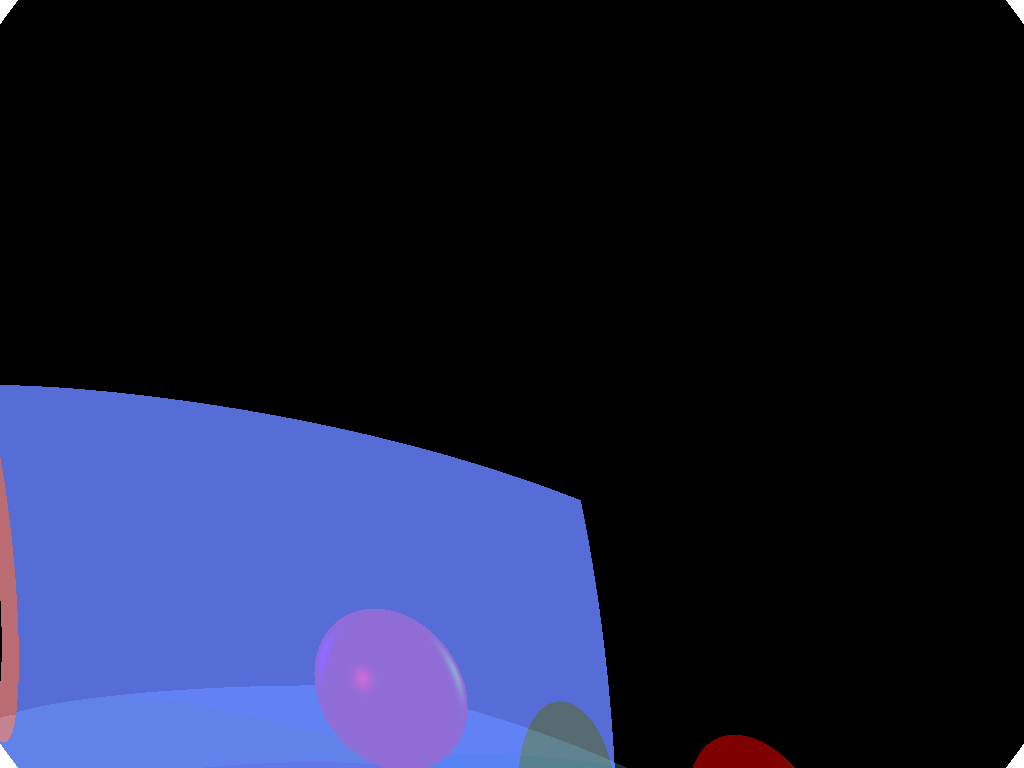
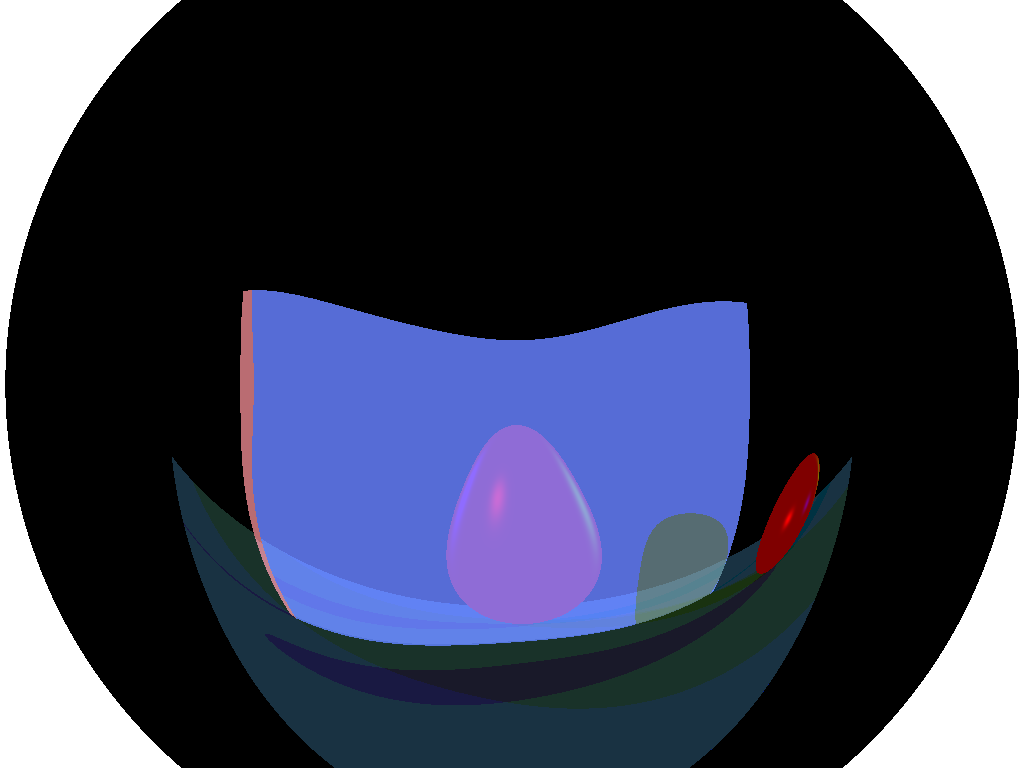
fix: minor bugs with thin lenses

diff --git a/src/lenses/lensassemblies.cpp b/src/lenses/lensassemblies.cpp
@@ -15,10 +15,10 @@ typedef struct Lens {
         // to this one
 } lens_t;
 
-lens_t globalLens1 = {0.2, 1.1, 0.5};
-// lens_t globalLens2 = {-0.5, 1.2, 0.5};
-std::vector<lens_t> lenses = {globalLens1};
-// std::vector<lens_t> lenses = {globalLens1, globalLens2};
+lens_t globalLens1 = {1, 1.2, 3};
+lens_t globalLens2 = {5, 5, 5};
+// std::vector<lens_t> lenses = {globalLens1};
+std::vector<lens_t> lenses = {globalLens1, globalLens2};
 
 typedef struct Aperture {
     float apertureRadius;
@@ -123,18 +123,24 @@ computeLensAdjustedDirection(glm::vec3 initialDirection,
 
     if (tValues.size() > 0) {
         float t = lens.lensRadius > 0
-                      ? *std::max_element(tValues.begin(), tValues.end())
-                      : *std::min_element(tValues.begin(), tValues.end());
+                      ? *std::min_element(tValues.begin(), tValues.end())
+                      : *std::max_element(tValues.begin(), tValues.end());
         glm::vec3 intersectionPoint = initialDirection * t + initialPosition;
         // std::cout << "t:" << t << std::endl;
+        // std::cout << "intersection" << std::endl;
+        // std::cout << intersectionPoint.x << std::endl;
+        // std::cout << intersectionPoint.y << std::endl;
+        // std::cout << intersectionPoint.z << std::endl;
+
         glm::vec3 lensNormal = LensSphereNormal(
-            intersectionPoint - (cumulativeThickness + lens.thickness));
+            intersectionPoint -
+            (glm::vec3(0, 0, cumulativeThickness + lens.thickness)));
         // std::cout << "lensnormal" << std::endl;
         // std::cout << lensNormal.x << std::endl;
         // std::cout << lensNormal.y << std::endl;
         // std::cout << lensNormal.z << std::endl;
 
-        float cosineThetaIncident = glm::dot(initialDirection, lensNormal);
+        float cosineThetaIncident = glm::dot(-initialDirection, lensNormal);
         float etaRatio =
             1.0 / lens.eta; // implicit assumption going from air to lens
 
@@ -145,7 +151,6 @@ computeLensAdjustedDirection(glm::vec3 initialDirection,
             etaRatio * etaRatio * sineSquaredThetaIncidentInitial;
         float cosineThetaTransmit = std::sqrt(1 - sineSquaredThetaIncidentAdjusted);
         // std::cout << "\nangles" << std::endl;
-
         // std::cout << cosineThetaIncident << std::endl;
         // std::cout << sineSquaredThetaIncidentInitial << std::endl;
         // std::cout << sineSquaredThetaIncidentAdjusted << std::endl;
@@ -164,7 +169,7 @@ std::tuple<glm::vec3, glm::vec3, bool>
 computeLensesAdjustedDirection(glm::vec3 initialDirection) {
     glm::vec3 currentDirection = initialDirection;
     glm::vec3 currentPosition = glm::vec3(0);
-    float cumulativeThickness = 0;
+    float cumulativeThickness = 0.f;
     for (lens_t &lens : lenses) {
         auto [nextDirection, nextPosition, stillInLens] =
             computeLensAdjustedDirection(currentDirection, currentPosition, lens,

diff --git a/src/raytracer/raytracer.cpp b/src/raytracer/raytracer.cpp
@@ -27,8 +27,8 @@ void RayTracer::render(RGBA *imageData, const RayTraceScene &scene) {
     // using aspect ratio to get the width of the view plane
     float viewPlaneWidth = scene.getCamera().getAspectRatio() * viewPlaneHeight;
 
-    auto [newDirection, newPosition, isHere] =
-        computeLensesAdjustedDirection(glm::vec3(0.1, 0.1, 1));
+    // auto [newDirection, newPosition, isHere] =
+    //     computeLensesAdjustedDirection(glm::vec3(0.1, 0.1, 1));
     // std::cout << newDirection.x << std::endl;
     // std::cout << newDirection.y << std::endl;
     // std::cout << newDirection.z << std::endl;
@@ -53,16 +53,22 @@ void RayTracer::render(RGBA *imageData, const RayTraceScene &scene) {
             glm::vec4 uvk = glm::vec4(x, y, -k, 1);
             glm::vec4 eye = glm::vec4(0, 0, 0, 1);
             glm::vec4 direction = uvk - eye;
-
-            direction.z *= -1;
+            // if (j == scene.height() - 1)
+            //     std::cout << "NOW" << std::endl;
+            // std::cout << "\nx and y" << std::endl;
+            // std::cout << x << std::endl;
+            // std::cout << y << std::endl;
+            direction.z *= -1.f;
             auto [newDirection, newPosition, inLens] =
                 computeLensesAdjustedDirection(direction);
             // std::cout << inLens << std::endl;
             if (inLens) {
+
+
                 direction = glm::vec4(newDirection, 0);
-                direction.z *= -1;
+                direction.z *= -1.f;
                 eye = glm::vec4(newPosition, 1);
-                eye.z *= -1;
+                eye.z *= -1.f;
                 // transform the ray into world space from camera space
                 glm::vec4 transformedEye =
                     scene.getCamera().getViewMatrixInverse() * eye;
